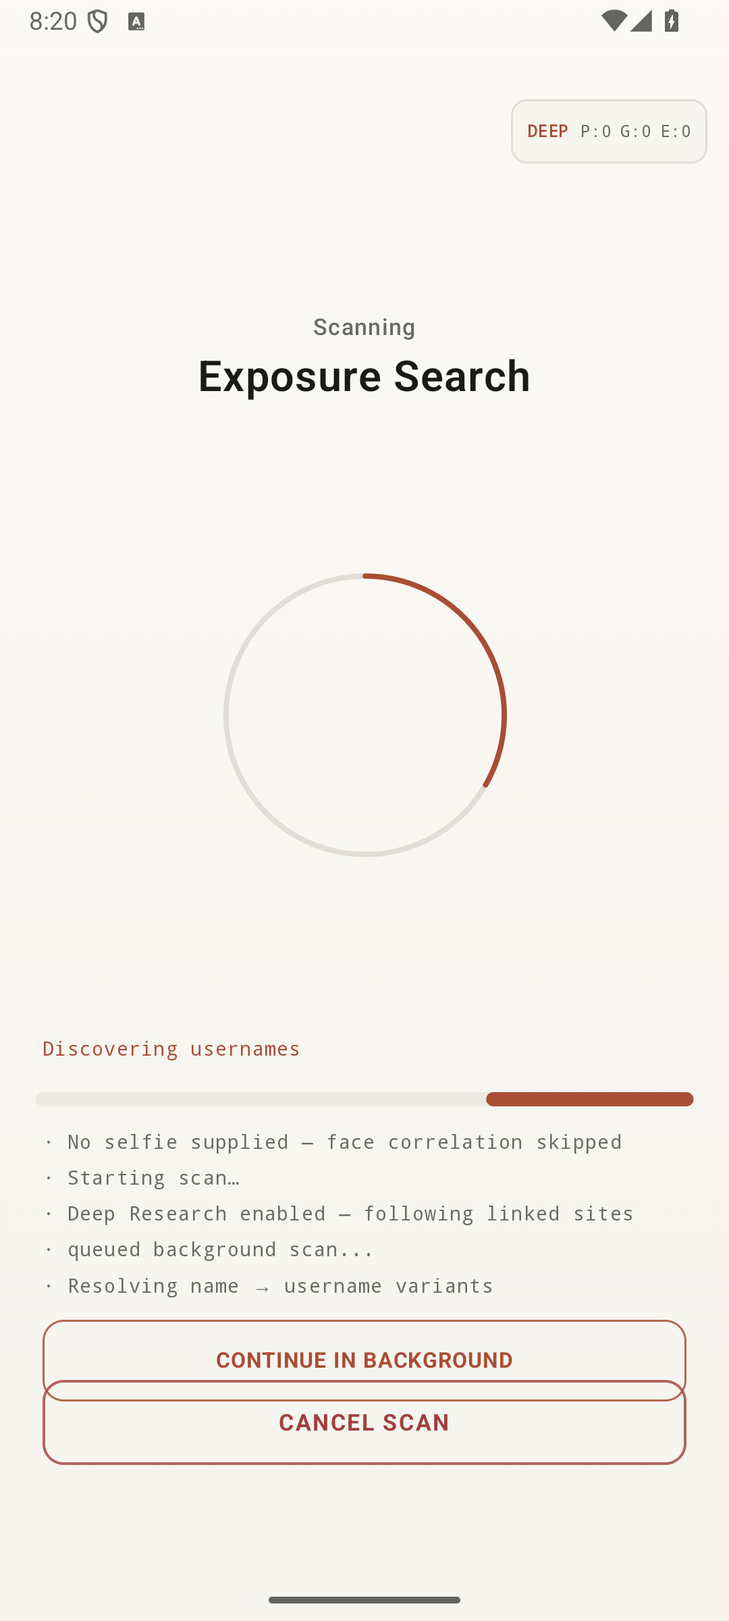
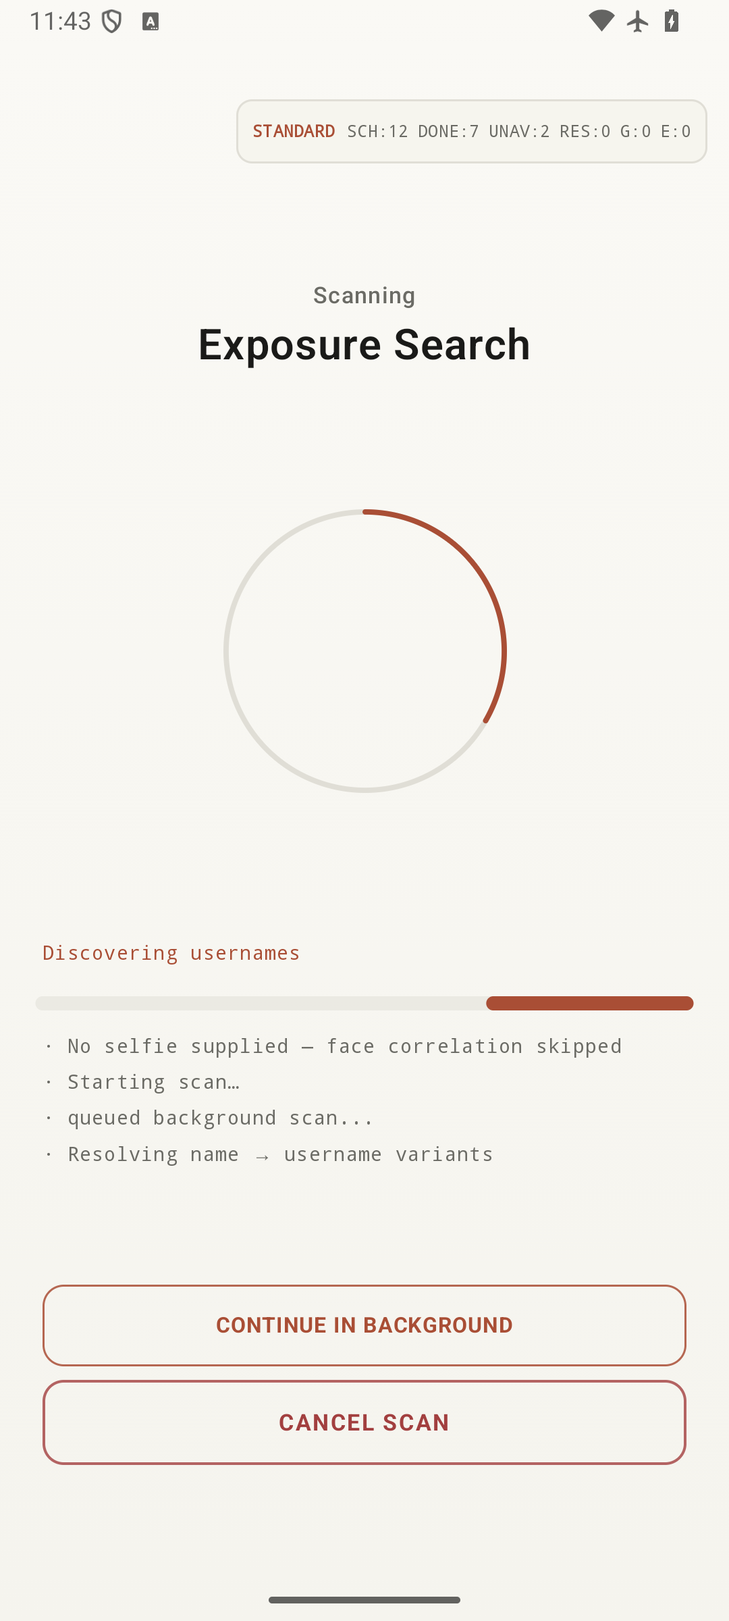
docs: record provider runtime validation

diff --git a/TRUTH.md b/TRUTH.md
@@ -4,12 +4,12 @@ This is the sole live implementation/readiness record for Dossier. `AGENTS.md` d
 
 ## Current snapshot
 
-- **Strict product readiness score:** **63/100**
+- **Strict product readiness score:** **64/100**
 - **Milestone state:** M0 complete; M1–M6 and M8–M12 materially advanced but still partial; M7 and M13 remain partial
 - **Current implementation branch:** `feat/product-contract-discovery-v2`
-- **Last validated implementation commit:** `b79c6969be8e0732ce806ab9550ee2bd39eb0f76`
+- **Last validated implementation commit:** `22a3ff7a1162683fd7b0ccd212eda99ac5eb1a08`
 - **Last validation date:** **2026-08-24**
-- **Current-session validation on that commit:** provider-registry audit, debug and uiTest JVM tests, debug and uiTest APK assembly, lint, API 36 Compose/UI tests, Android Keystore resume tests, exact-UUID WorkManager lifecycle/crash-boundary tests and the previously inspected synthetic-data screenshot set
+- **Current-session validation on that commit:** provider-registry audit, debug and uiTest JVM tests, debug and uiTest APK assembly, lint, API 36 Compose/UI tests, Android Keystore resume tests, exact-UUID WorkManager lifecycle/crash-boundary tests, provider-runtime lifecycle tests and affected-state visual QA at normal and 1.3x font scale
 - **Documentation-only commits after the validated implementation:** may update this file/PR prose without changing the validated code claim
 - **Last validated device class:** Medium_Phone profile, Android API 36, x86_64 emulator
 - **Real-device production validation:** not yet recorded
@@ -19,14 +19,14 @@ This is the sole live implementation/readiness record for Dossier. `AGENTS.md` d
 
 Compilation, unit tests and emulator tests are necessary gates, but they do not substitute for live-provider validation, calibrated identity/face benchmarks, physical-device measurements, accessibility validation or release hardening.
 
-The readiness score remains **63/100** after the production lifecycle-recovery and visual-QA tranches. Encrypted two-phase request persistence, generation-bound manager/worker/startup wiring, exact-UUID WorkManager reconciliation, terminal cancellation observation and atomic result replacement are implemented and tested. The score does not increase yet because those deterministic crash-boundary tests are not an external process-kill/relaunch or reboot campaign, and the larger coordinator/frontier, provider, calibration and physical-device gates remain open.
+The readiness score is **64/100** after the declarative provider-execution tranche. Direct-profile candidates now execute through provider definitions with bounded request policy, typed truthful outcomes, provider identity in evidence and real lifecycle counters. Discovery gains one point because this closes a production execution gap; scale, registry-wide live validation, remaining custom-resolver migration, persisted frontier/health, calibration and physical-device gates remain open.
 
 ## Strict 100-point rubric
 
 | Area | Score | Truth |
 |---|---:|---|
-| Discovery breadth and reliability | **9/15** | Discovery Fabric v2 is integrated into runtime scan planning with 78 declarative definitions, categories, validation, health primitives, scan modes, maintenance-audit CI and compatibility execution. A broad OSINT capability catalog and bounded report-interoperability layer now cover many additional tool families, but most external frameworks are import/manual integrations rather than native live providers. The project remains far below the 1,000+ reviewed/live-validated target. |
-| Recursive orchestration | **5/10** | The coordinator/event bridge starts and observes the mature pipeline; live UI consumes real event-derived state; two-hop discovery has admission/visited/depth/budget rules; real terminal scan history is captured. Production background scheduling now uses encrypted two-phase request publication, an exact UUID/generation lifecycle, startup `getWorkInfoById` reconciliation, idempotent result-aware success and terminal cancellation observation. True in-flight pause/resume, sole coordinator ownership, per-provider lifecycle events, a general persisted frontier/plan and external process-kill/reboot proof remain incomplete. |
+| Discovery breadth and reliability | **10/15** | Discovery Fabric v2 is integrated into runtime planning and direct-profile execution with 78 declarative definitions, categories, validation, bounded reads, timeout/retry/cooldown/request-spacing policy, typed truthful outcomes, provider health updates, scan modes and maintenance-audit CI. A broad OSINT capability catalog and bounded report-interoperability layer cover additional tool families, but most external frameworks are import/manual integrations rather than native live providers. The project remains far below the 1,000+ reviewed/live-validated target and lacks registry-wide live contracts. |
+| Recursive orchestration | **5/10** | The coordinator/event bridge starts and observes the mature pipeline; direct-profile work emits real queued/started/completed/unavailable events under a stable scan ID; live UI consumes bounded event-derived counts; two-hop discovery has admission/visited/depth/budget rules; real terminal scan history is captured. Production background scheduling uses encrypted two-phase request publication, exact UUID/generation ownership, startup `getWorkInfoById` reconciliation, idempotent result-aware success and terminal cancellation observation. True in-flight pause/resume, sole coordinator ownership, a general persisted frontier/plan and external process-kill/reboot proof remain incomplete. |
 | Evidence/provenance | **6/10** | Universal evidence supports provider, retrieval/observation timestamps, verification state, reliability, SHA-256, parser version and historical state. Imported third-party OSINT reports are explicitly Candidate/ThirdPartyAggregation and never become Verified merely because an external tool reported a hit. Older producers still do not populate every field universally. |
 | Entity resolution | **5/10** | An explainable multi-signal resolver is integrated into the production graph, preserves contributions and contradictions, and prevents same-username-only confirmation. Direct profile verification now keeps handle-only/name-only matches below the attribution threshold unless independently corroborated or explicitly supplied. Weights remain engineering parameters rather than benchmark-calibrated probabilities. |
 | Identity graph | **6/8** | Graph v2 adds semantic node kinds, typed relationships, evidence/contradiction IDs, node states, history fields, queries and schema versioning while preserving legacy case compatibility. GraphML, declared-attribute GEXF and NetworkX-style node-link JSON serializers provide dependency-free interoperability with Gephi/Cytoscape/NetworkX-style workflows. Some subsystems still retain parallel representations. |
@@ -35,10 +35,10 @@ The readiness score remains **63/100** after the production lifecycle-recovery a
 | Historical evidence | **3/6** | Exact-URL Wayback recovery, bounded CDX history discovery, selected-snapshot re-fetching and best-effort archive.today fallback exist. Historical captures remain explicitly historical and cannot masquerade as proof of current account existence. Universal historical extraction/change tracking and production timeline UI remain incomplete. |
 | Breach intelligence | **4/5** | HIBP authoritative coverage remains separate from general public exposure; privacy-preserving range flows are used where supported; breach/provider/retrieval/date metadata is preserved. LeakCheck/DeHashed/Breach-Parse/Buster/BreachFinder interoperability is summary-only and rejects credential/secret-bearing records. Coverage remains externally dependent. |
 | AI analyst | **4/5** | Generated factual claims must be structured, cite existing evidence IDs and survive deterministic validation; uncited/unknown identifiers are withheld and invalid output falls back locally. The validator also rejects explicit email/URL identifiers not present in the evidence actually cited. Corrected-graph/remediation-native inputs and a production evaluation corpus remain incomplete. |
-| UX/UI | **6/8** | Overview/Evidence/Connections/Actions remain coherent; live scan state is event-derived; saved Cases support persistent corrections, remediation tracking, scan-history display and share-safe export. API 36 visual QA fixed consent-footer overlap, machine-token status copy, graph-label clipping and remediation-status overlap, and records synthetic-data screenshots. Timeline UX, graph-export UI, case-integrated image clusters and broad accessibility/adaptive-layout/physical-device validation remain incomplete. |
+| UX/UI | **6/8** | Overview/Evidence/Connections/Actions remain coherent; live scan state is event-derived; saved Cases support persistent corrections, remediation tracking, scan-history display and share-safe export. API 36 visual QA fixed consent-footer overlap, machine-token status copy, graph-label clipping, remediation-status overlap, stale scan logs and the background/cancel action collision; provider counters remain readable at 1.3x font scale. Timeline UX, graph-export UI, case-integrated image clusters and broad accessibility/adaptive-layout/physical-device validation remain incomplete. |
 | Security/privacy | **3/4** | Keystore AES-256-GCM cases, encrypted request-scoped scan checkpoints, generation-bound exact-owner lifecycle state, opaque new WorkManager inputs, allowlisted WorkManager progress/error values, atomic encrypted result replacement, restricted evidence WebView, local visual processing defaults, opt-in remote AI, explicit deletion and pre-write share-safe export are implemented. External report imports are bounded, local/in-memory, tied to explicit audit seeds and strip/reject password/hash/cookie/token/session/credential material. Historical plaintext WorkManager rows are not forensically erased, and latest-result reads still need bounded/off-main hardening. |
-| Testing/device validation | **3/5** | Provider audit (78 definitions), both debug and uiTest JVM suites (430 tests across 84 suites each, 0 failures/errors/skips), debug/uiTest APK assembly, lint and API 36 Compose/instrumentation (20/20), including Android Keystore resume tests (2/2), exact-UUID WorkManager lifecycle/crash-boundary tests (5/5) and the uiTest-only encrypted visual fixture (1/1), pass on the exact implementation commit above. Fifteen API 36 screenshots were inspected, but physical Samsung/Pixel/lower-memory, battery, external process-death/reboot, font-scale and accessibility gates remain incomplete. |
-| **Total** | **63/100** | A materially integrated contract tranche is validated. External-tool interoperability does not substitute for native/live provider validation, empirical calibration, provider scale or release hardening. |
+| Testing/device validation | **3/5** | Provider audit (78 definitions), both debug and uiTest JVM suites (448 tests across 85 suites each, 0 failures/errors/skips), debug/uiTest APK assembly, lint and a clean-state API 36 Compose/instrumentation run (21/21), including Android Keystore resume tests (2/2), exact-UUID WorkManager lifecycle/crash-boundary tests (5/5) and uiTest-only encrypted-data/provider-progress fixtures (2/2), pass on the exact implementation commit above. Fifteen canonical API 36 screenshots and the affected scan state at normal/1.3x font scale were inspected, but physical Samsung/Pixel/lower-memory, battery, external process-death/reboot and complete accessibility gates remain incomplete. |
+| **Total** | **64/100** | Declarative provider execution is now production-wired and validated. This does not substitute for registry-wide live validation, empirical calibration, provider scale or release hardening. |
 
 ## M0 — Baseline audit
 
@@ -59,6 +59,10 @@ Implemented:
 - scan-mode persistence in resume markers;
 - process-local provider health statistics;
 - **78 authored provider/service definitions**;
+- direct-profile execution through definitions with bounded response reads, policy timeouts, retries, cooldowns, minimum request spacing and redirect enforcement;
+- typed `RateLimited`, `Timeout` and `NetworkUnavailable` outcomes alongside present/not-found/auth/challenge/redirect/parser states;
+- provider IDs propagated from templates through candidates/results into evidence;
+- stable-scan-ID queued/started/completed/unavailable callbacks and persistent health outcome updates;
 - legacy `PLATFORMS` compatibility generated from the v2 registry;
 - deterministic provider-registry audit tool and CI;
 - audit parser-drift detection and canonical TRUTH count enforcement;
@@ -66,7 +70,7 @@ Implemented:
 - a public-source capability catalog separating Native, NativeEquivalent, ImportOnly, API-key-dependent, ManualOnly, Retired and Unsupported integration postures;
 - explicit truthful states for retired Google/Bing cached-page products rather than simulated support.
 
-Not complete: 1,000+ useful reviewed sources, registry-wide live present/missing/soft-404/redirect/challenge validation, universal v2 per-provider rate/concurrency/cooldown scheduling, persisted provider-health history, and migration of every mature custom resolver.
+Not complete: 1,000+ useful reviewed sources, registry-wide live present/missing/soft-404/redirect/challenge validation, persisted provider-health history, and migration of every mature custom resolver to the declarative runtime.
 
 ## OSINT interoperability tranche
 
@@ -143,8 +147,8 @@ Implemented in the current production path:
 - `ScanId`, `ScanRequest`, `ScanRunState`, `ScanEvent`, `LiveScanSnapshot`;
 - coordinator start/cancel wrapper around the mature `ScanSession`;
 - real stage/profile/face/breach/graph/analysis/completion/cancellation observations;
-- production live UI counters from real session state;
-- no invented provider-completion events;
+- production live UI counters from real session and provider-execution state;
+- real direct-profile provider queued/started/completed/unavailable events with bounded counter semantics, retry isolation and stale-scan callback rejection;
 - real scan lifecycle metadata including start/end, mode, provider-plan size, terminal counts and cancellation state;
 - PII-safe SHA-256 seed fingerprint binding for associating a completed scan with an initial explicit case save;
 - later correction/remediation edits cannot silently graft a newer scan onto an older case;
@@ -159,7 +163,7 @@ Implemented in the current production path:
 
 Supporting lifecycle stores use encrypted request `prepare` / exact-ID load / `promote` / discard operations, durable deletion guards, immutable generation/owner/request records, safe error codes and full-snapshot compare-and-transition operations. Reconciliation distinguishes authoritative missing work from an unavailable lookup and never adopts a unique-work-list result by ordering.
 
-Not complete: true suspended pause/resume, provider queued/started/completed/unavailable events, sole coordinator ownership, a persisted plan/parser/frontier generation and external process-kill/relaunch plus reboot recovery proof.
+Not complete: true suspended pause/resume, sole coordinator ownership, a persisted plan/parser/frontier generation, migration of remaining custom resolver work to provider lifecycle events and external process-kill/relaunch plus reboot recovery proof.
 
 The encrypted resume record stores the seed input, selected mode, deep-scan flag and per-scan strong-face-policy flag. New WorkManager rows receive only opaque request/generation UUID references. Prepared/current generations are still request checkpoints, not a persisted scan plan/parser/frontier fingerprint, and deterministic crash-boundary/instrumentation coverage does not by itself constitute process-death or reboot acceptance.
 
@@ -272,7 +276,7 @@ Implemented/preserved:
 - remediation action/value/status rows that remain separate when action copy wraps;
 - a deterministic uiTest-only `.test` fixture that exercises the production encrypted case/transient-result stores and is absent from the debug manifest.
 
-Visual QA on the API 36 Medium Phone emulator produced and inspected 15 canonical screenshots covering consent, identity validation, username review, scan configuration/queued handoff, analysis, all report tabs, saved cases, corrections and remediation. The accepted captures fixed consent copy under the sticky CTA, the raw `SuspiciousSimilarity` token, the clipped `jane@example.tes` graph label and remediation-status collision. The screenshots contain synthetic/non-personal test data only. One minor defect remains visible in `07-scan-progress.png`: the overlaid Continue-in-background and Cancel controls have insufficient vertical separation at this viewport. It is deferred and excluded from the README gallery. This is one viewport and does not establish TalkBack, font/display scaling, reduced motion, landscape/tablet or physical-device acceptance.
+Visual QA on the API 36 Medium Phone emulator produced and inspected 15 canonical screenshots covering consent, identity validation, username review, scan configuration/progress, analysis, all report tabs, saved cases, corrections and remediation. The accepted captures fixed consent copy under the sticky CTA, the raw `SuspiciousSimilarity` token, the clipped `jane@example.tes` graph label, remediation-status collision, stale scan-complete log and the Continue-in-background/Cancel overlap. `07-scan-progress.png` now shows unobstructed logs, separate action bounds and real scheduled/completed/unavailable counter semantics; the affected screen also remained readable at 1.3x font scale. The provider-progress values are a deterministic uiTest-only lifecycle fixture and are not claimed as a live-network scan. Screenshots contain synthetic/non-personal test data only. This remains one viewport and one affected font-scale check; it does not establish TalkBack, full font/display scaling, reduced motion, landscape/tablet or physical-device acceptance.
 
 Not complete: production timeline, graph-export UI, case-integrated/cross-account image cluster review, corrections directly on every live Evidence card, mature tablet/landscape adaptation, localization/RTL and complete accessibility validation.
 
@@ -319,7 +323,7 @@ External OSINT imports are local/in-memory and bounded. Import parsers require e
 Validated implementation commit:
 
 ```text
-b79c6969be8e0732ce806ab9550ee2bd39eb0f76
+22a3ff7a1162683fd7b0ccd212eda99ac5eb1a08
 ```
 
 Validation date:
@@ -332,19 +336,19 @@ Current-session validation on that exact commit:
 
 ```text
 Provider registry audit       PASS — 78 definitions (70 profile templates + 8 services)
-Debug JVM test suite          PASS — 430 tests / 84 suites / 0 failures / 0 errors / 0 skips
-uiTest JVM test suite         PASS — 430 tests / 84 suites / 0 failures / 0 errors / 0 skips
-Debug APK assembly            PASS — 118,240,288 bytes
-Debug APK SHA-256             F7860FDCDF38E9B7952EF6EC67161174E130759D024B9A9417FB98565FEED681
+Debug JVM test suite          PASS — 448 tests / 85 suites / 0 failures / 0 errors / 0 skips
+uiTest JVM test suite         PASS — 448 tests / 85 suites / 0 failures / 0 errors / 0 skips
+Debug APK assembly            PASS — 115,014,478 bytes
+Debug APK SHA-256             17A627D1FF3AC916E0B6DA2FAA44382FEF69A9AFDC442F0C3D4F33449C67C993
 Debug lint                    PASS — 0 errors / 65 warnings / 6 hints
-uiTest APK assembly           PASS — 242,963,519 bytes
-uiTest APK SHA-256            1532A965FC076F4442BA282089DC8E1886B3696B326DA588CDB4B1764F5601F9
+uiTest APK assembly           PASS — 242,449,051 bytes
+uiTest APK SHA-256            AE079F82D6486F36887F913AFA6CE33126C6B9C2753D772CD0764D940ED9B3A8
 uiTest lint                   PASS — 0 errors / 68 warnings / 6 hints
-API 36 Medium_Phone suite     PASS — 20/20 on x86_64 emulator
+API 36 Medium_Phone suite     PASS — 21/21 on x86_64 emulator after exact package-data reset
 Android Keystore resume       PASS — 2/2 within the full emulator suite
 WorkManager lifecycle         PASS — 5/5 within the full emulator suite
-Encrypted visual fixture      PASS — 1/1 within the full emulator suite
-Manual visual QA              RECORDED — 15 inspected API 36 screenshots; synthetic data only
+Visual QA fixture receiver    PASS — 2/2 (encrypted case/result + provider lifecycle counters)
+Manual visual QA              RECORDED — 15 canonical API 36 screenshots plus affected scan state at 1.3x font scale; synthetic data only
 ```
 
 The unit suite includes regressions for external OSINT authorization boundaries, secret-bearing breach reports, Numverify phone scoping, graph interoperability, encrypted two-phase checkpoint persistence/deletion guards, generation-bound lifecycle transitions/startup retry, atomic result replacement, opaque WorkManager transport, fixed progress/error codes, graph-label placement, status copy and cancellation propagation. The API 36 WorkManager class exercises pending same-UUID reenqueuing, durable-success retry, exact terminal cancellation, stale-owner isolation and opaque WorkSpec input. The Compose harness validates one-time onboarding persistence across activity recreation, isolates onboarding state between tests and checks wrapped remediation/status bounds. The uiTest-only receiver writes deterministic `.test` data through the production encrypted stores and is absent from the debug manifest. WorkManager coverage remains scoped to newly created current rows and deterministic crash states; it is not historical/WAL forensic erasure, external process-death/reboot, accessibility or physical-device evidence.
@@ -352,7 +356,7 @@ The unit suite includes regressions for external OSINT authorization boundaries,
 ## Current production blockers
 
 1. Grow Discovery Fabric from 78 definitions toward the contract's 1,000+ useful reviewed providers with automated maintenance/import and live provider-contract validation.
-2. Make v2 scheduling universal: per-provider rate policy, provider-level lifecycle events and persisted health.
+2. Migrate remaining mature custom resolvers to the v2 runtime and persist provider health/reliability across process lifetimes.
 3. Implement true coordinator-owned pause/resume and a persisted general recursive frontier/plan, then run external process-kill/relaunch and reboot recovery validation against the production lifecycle.
 4. Move latest-result decrypt/deserialize/purge work fully off the main thread, bound result-envelope reads and run large-case ANR/storage-corruption tests.
 5. Calibrate entity resolution with a representative benchmark and publish precision/recall/FPR/FNR/calibration results here.

diff --git a/README.md b/README.md
@@ -6,27 +6,27 @@ It collects public evidence, preserves provenance, separates verification from r
 
 ## Current status
 
-The current implementation branch is **63/100 under the strict production rubric**.
+The current implementation branch is **64/100 under the strict production rubric**.
 
 Validated implementation commit:
 
 ```text
-b79c6969be8e0732ce806ab9550ee2bd39eb0f76
+22a3ff7a1162683fd7b0ccd212eda99ac5eb1a08
 ```
 
 That exact implementation passed the current final-tree validation gates:
 
 ```text
 Provider registry audit             PASS — 78 definitions (70 profile templates + 8 services)
-Debug JVM unit tests                PASS — 430 tests / 84 suites / 0 failures, errors, or skips
-uiTest JVM unit tests               PASS — 430 tests / 84 suites / 0 failures, errors, or skips
-Debug APK assembly                  PASS — 118,240,288 bytes
-Debug APK SHA-256                   F7860FDCDF38E9B7952EF6EC67161174E130759D024B9A9417FB98565FEED681
-uiTest APK assembly                 PASS — 242,963,519 bytes
-uiTest APK SHA-256                  1532A965FC076F4442BA282089DC8E1886B3696B326DA588CDB4B1764F5601F9
+Debug JVM unit tests                PASS — 448 tests / 85 suites / 0 failures, errors, or skips
+uiTest JVM unit tests               PASS — 448 tests / 85 suites / 0 failures, errors, or skips
+Debug APK assembly                  PASS — 115,014,478 bytes
+Debug APK SHA-256                   17A627D1FF3AC916E0B6DA2FAA44382FEF69A9AFDC442F0C3D4F33449C67C993
+uiTest APK assembly                 PASS — 242,449,051 bytes
+uiTest APK SHA-256                  AE079F82D6486F36887F913AFA6CE33126C6B9C2753D772CD0764D940ED9B3A8
 Debug lint                          PASS — 0 errors / 65 warnings / 6 hints
 uiTest lint                         PASS — 0 errors / 68 warnings / 6 hints
-API 36 x86_64 instrumentation       PASS — 20/20 tests
+API 36 x86_64 instrumentation       PASS — 21/21 tests
 ```
 
 The API 36 Medium Phone emulator run included 5/5 exact-UUID WorkManager lifecycle tests: opaque work input, pending-generation reenqueuing under the same UUID, idempotent retry after durable result publication, cancellation that waits for the exact terminal row, and stale-owner isolation/cleanup. It also included 2/2 Android Keystore-backed resume-store checks, the uiTest-only encrypted visual fixture, and the Compose/remediation regressions. This proves the exercised crash-boundary states and current WorkManager rows on that emulator; it does not prove historical-row erasure, SQLite WAL/free-page sanitization, an externally killed/rebooted process, accessibility, or physical-device behavior.
@@ -37,16 +37,19 @@ See `TRUTH.md` for the authoritative score and blockers. `AGENTS.md` defines the
 
 ## Visual walkthrough
 
-These captures come from the API 36 Medium Phone emulator. Analysis, report and case screens use a deterministic **uiTest-only** fixture written through the production encrypted stores; all identity values and URLs are synthetic and use reserved `.test` domains. The receiver exists only in the uiTest source set and is absent from the debug manifest. Static screenshots do not establish TalkBack, large-font, reduced-motion, adaptive-layout or physical-device acceptance.
+These captures come from the API 36 Medium Phone emulator. Analysis, report, case and provider-progress states use deterministic **uiTest-only** fixtures; case data is written through the production encrypted stores and provider counters are emitted through the production coordinator callbacks. All identity values and URLs are synthetic and use reserved `.test` domains. The receiver exists only in the uiTest source set and is absent from the debug manifest. Static screenshots do not establish TalkBack, full large-font, reduced-motion, adaptive-layout or physical-device acceptance.
 
 | Consent and input validation | Scan configuration |
 |---|---|
 | <img src="docs/screenshots/01-onboarding.png" width="320" alt="Dossier one-time usage notice with all consent copy clear of the Continue button"> | <img src="docs/screenshots/06-scan-configuration.png" width="320" alt="Scan depth configuration showing real direct-profile provider counts"> |
-| <img src="docs/screenshots/03-identity-invalid-email.png" width="320" alt="Identity form showing an invalid email message and disabled Continue button"> | <img src="docs/screenshots/08-analysis.png" width="320" alt="Background analysis with readable presence states and bounded supporting analysis"> |
+| <img src="docs/screenshots/03-identity-invalid-email.png" width="320" alt="Identity form showing an invalid email message and disabled Continue button"> | <img src="docs/screenshots/07-scan-progress.png" width="320" alt="Live scan showing scheduled, completed and unavailable provider counters with separate background and cancel actions"> |
 
-| Evidence-oriented report | Explainable connections |
+| Background analysis | Evidence-oriented report |
 |---|---|
-| <img src="docs/screenshots/09-report-overview.png" width="320" alt="Privacy audit report overview with exposure priority and coverage counts"> | <img src="docs/screenshots/10-report-evidence.png" width="320" alt="Evidence tab with provenance URL, attribution confidence and suggested action"> |
+| <img src="docs/screenshots/08-analysis.png" width="320" alt="Background analysis with readable presence states and bounded supporting analysis"> | <img src="docs/screenshots/09-report-overview.png" width="320" alt="Privacy audit report overview with exposure priority and coverage counts"> |
+
+| Explainable connections | Remediation tracking |
+|---|---|
 | <img src="docs/screenshots/11-report-connections.png" width="320" alt="Connections tab with a visual identity graph and complete email label"> | <img src="docs/screenshots/15-remediation.png" width="320" alt="Saved-case remediation tracking with long actions and status labels on separate rows"> |
 
 ## Discovery Fabric
@@ -55,8 +58,10 @@ These captures come from the API 36 Medium Phone emulator. Analysis, report and 
 - Developer, social, forum, gaming, creative, publishing, professional, media, commerce, education, code/package, personal-site, archive, breach and search categories.
 - Quick, Standard, Deep and Exhaustive scan modes backed by real provider plans rather than fake totals.
 - Provider query capabilities, source-reliability classes, existence/extraction rules and request policies.
+- Direct-profile candidates execute through the declarative provider runtime with bounded reads, timeout/retry/cooldown policy, provider request spacing, redirect checks and a generic non-impersonating user agent.
+- Real queued, started, completed and unavailable callbacks drive scheduled/completed/unavailable counters; planned registry breadth is not presented as completed work.
 - Registry validation for duplicates, malformed templates, parser drift and inventory drift.
-- Deterministic response states for present, not-found, soft-404, authentication-required, challenged, redirect, unexpected and invalid responses.
+- Deterministic response states for present, not-found, soft-404, authentication-required, challenged, rate-limited, timed-out, network-unavailable, redirect, unexpected and invalid responses.
 - Multiple bounded public-search sources, direct source verification, retries, `Retry-After`, caches and circuit breakers.
 - Bounded two-hop pivots with admission rules: weak name/location/occupation/face-only signals do not recursively expand by themselves.
 - Exact-URL Internet Archive recovery for some deleted/replaced pages.
@@ -68,7 +73,7 @@ The long-term contract calls for 1,000+ useful reviewed definitions. The current
 - `ScanCoordinatorRuntime` wraps the mature vertical scan pipeline.
 - Structured scan IDs, requests, run states and events.
 - Live UI state derives from real scan-stage/profile/face/breach/graph/analysis observations.
-- Cancellation is supported; Dossier does not invent provider-level completion events while the underlying scheduler lacks callbacks.
+- Direct-profile execution emits provider queued/started/completed/unavailable events with one stable scan ID; retries do not inflate unique started counts and stale callbacks are ignored.
 - Identity seeds, scan mode, deep-scan choice and per-scan face policy are stored in an Android Keystore AES-GCM resume record; new WorkManager requests receive only its opaque UUID.
 - Background WorkManager progress and failures are reduced to fixed stage/error codes rather than persisting arbitrary exception or identity text.
 - Background enqueue now publishes a generation-bound lifecycle before replacing the old exact WorkManager UUID, promotes only that prepared encrypted request, and reenqueues the same UUID after an authoritative missing-row crash boundary.
@@ -80,7 +85,7 @@ The long-term contract calls for 1,000+ useful reviewed definitions. The current
 - A SHA-256 fingerprint of normalized seed values binds a completed scan to the matching initial explicit encrypted case save without maintaining a duplicate plaintext identity cache.
 - Later case edits cannot silently attach a newer scan to an older case.
 
-True suspended pause/resume, provider-level queue/start/completion events, persisted general frontier/plan checkpoints and sole coordinator ownership remain incomplete. Crash-boundary tests exercise durable states, but an ADB-driven external process-kill/relaunch and reboot campaign is still required before production recovery is claimed.
+True suspended pause/resume, persisted general frontier/plan checkpoints and sole coordinator ownership remain incomplete. Some mature custom resolvers still need migration to the declarative execution path. Crash-boundary tests exercise durable states, but an ADB-driven external process-kill/relaunch and reboot campaign is still required before production recovery is claimed.
 
 ## Evidence, graph and entity resolution
 
